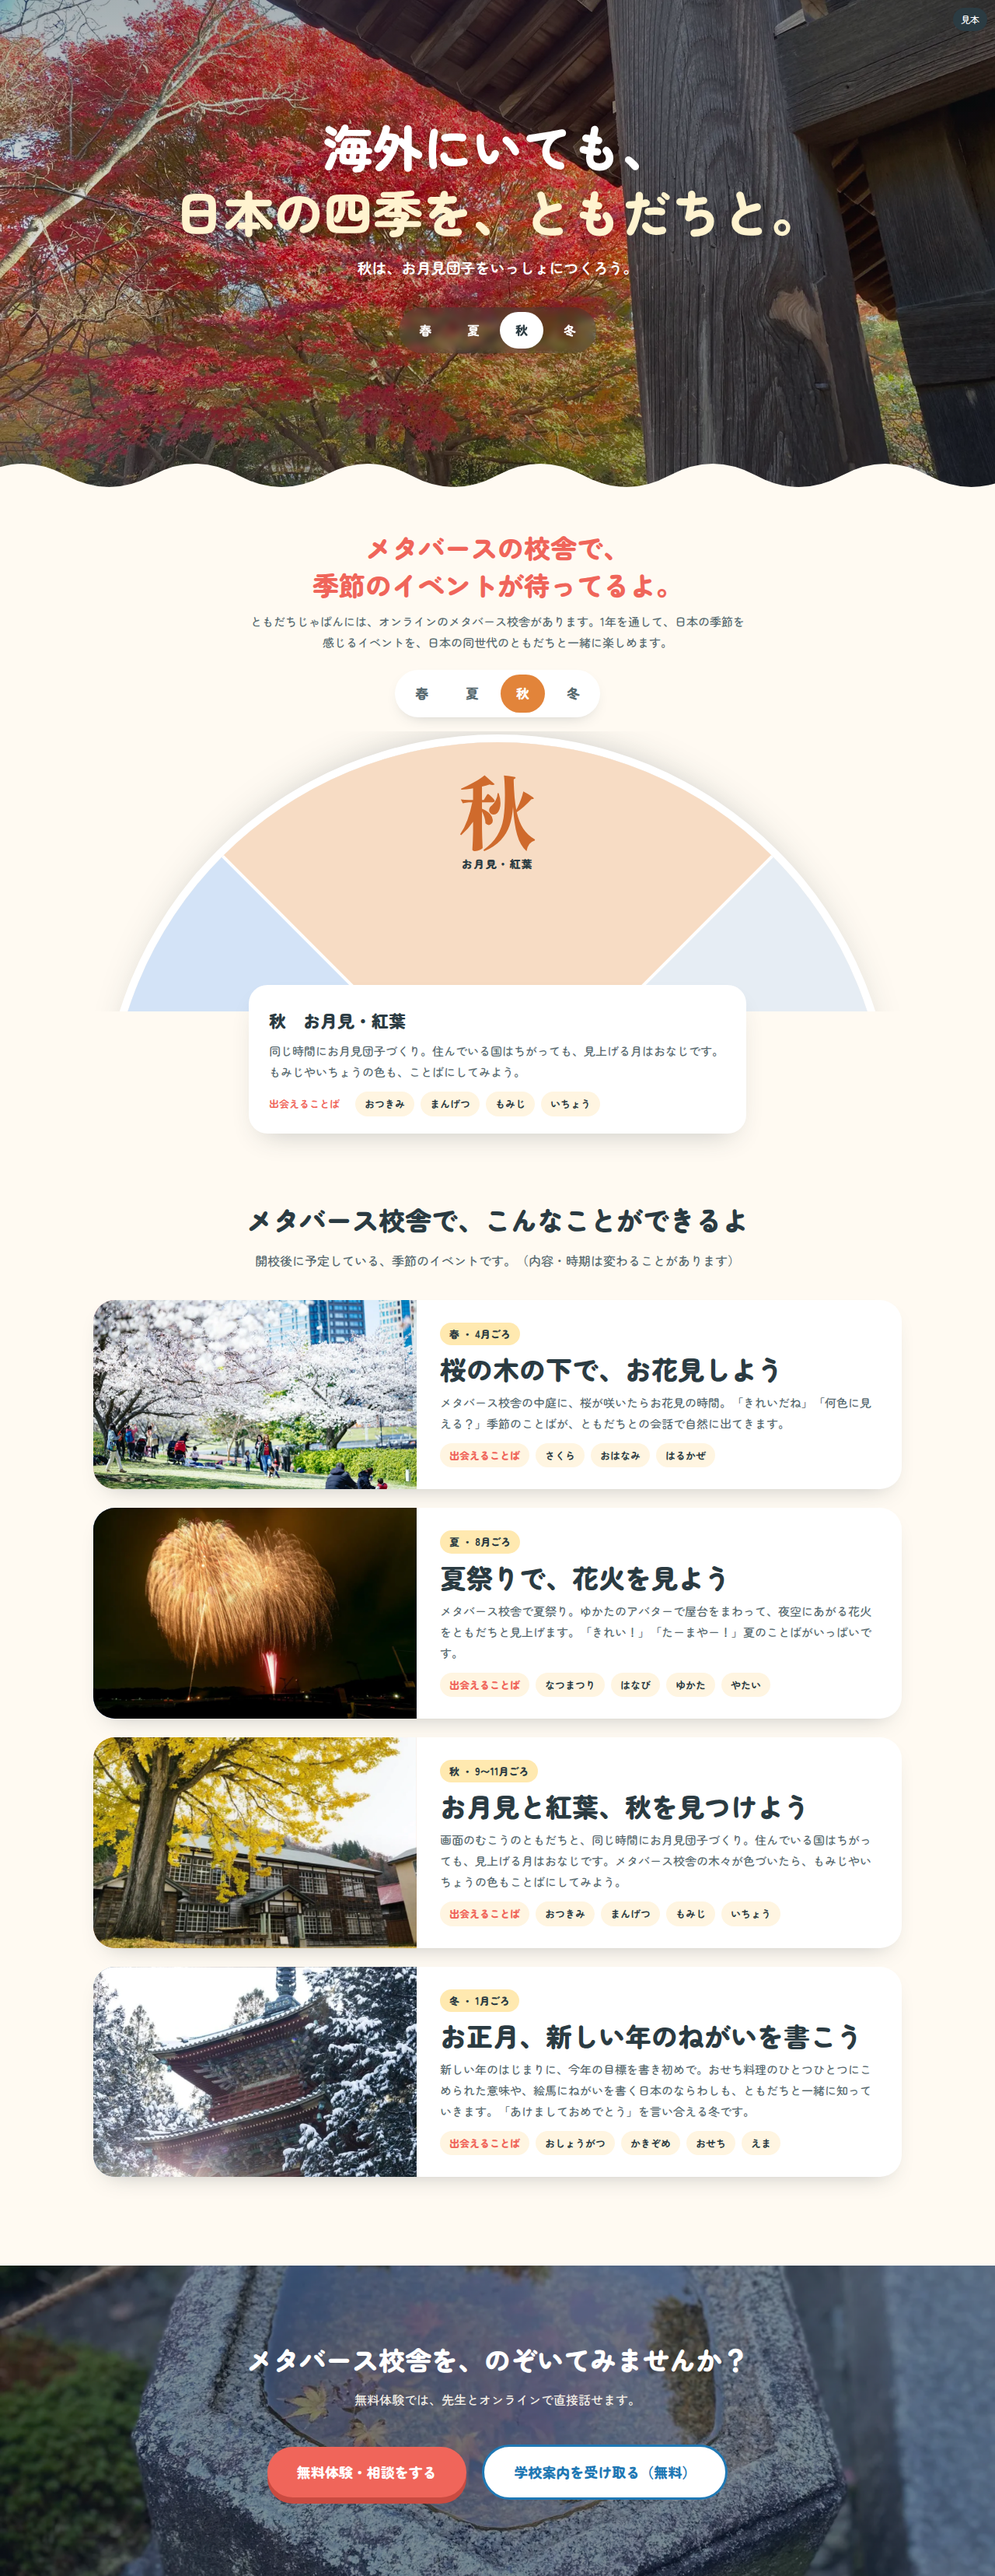
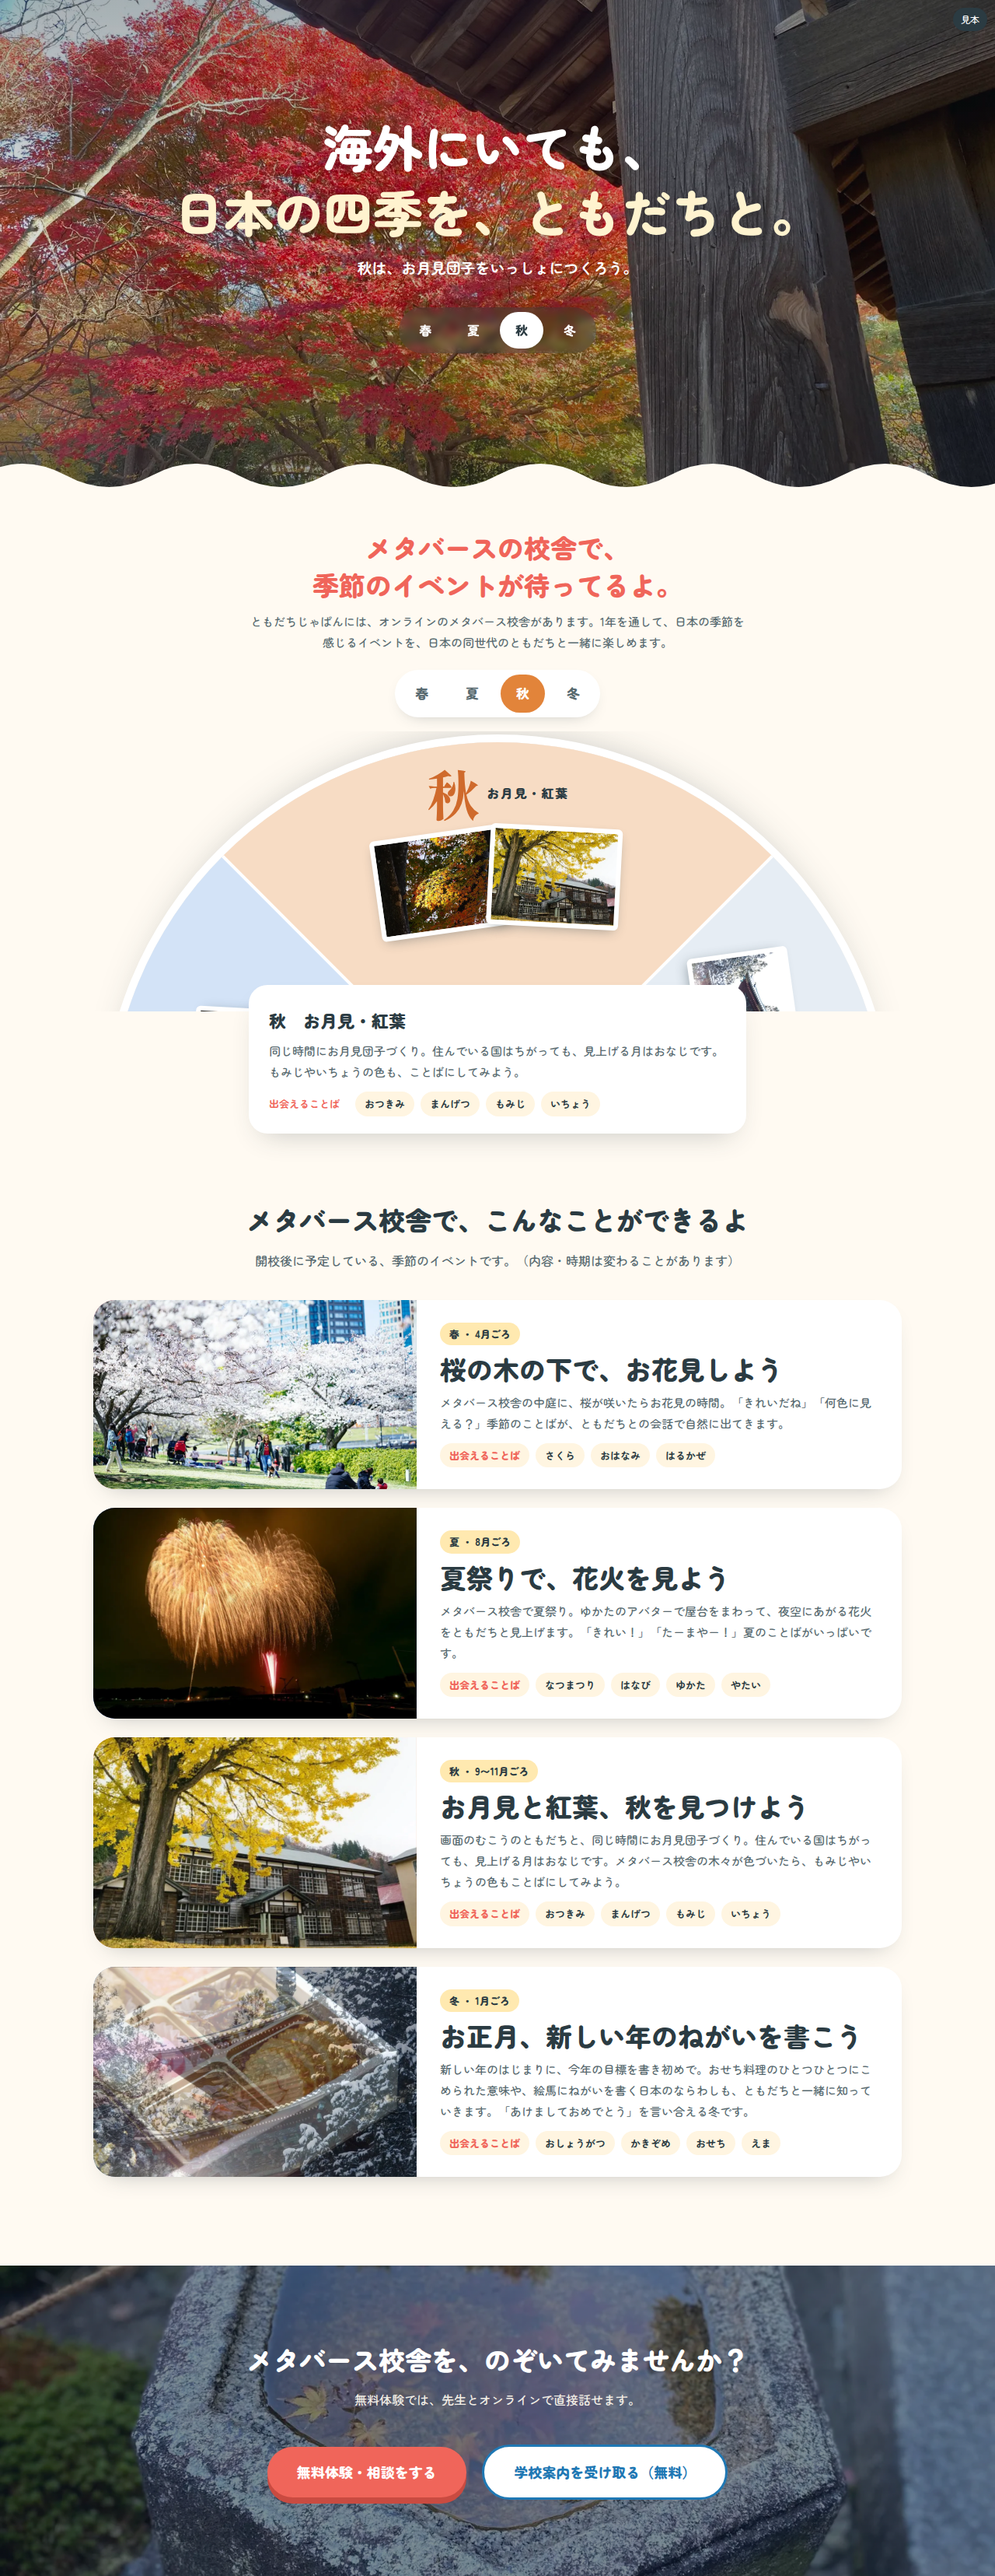
四季のページ：季節の輪に写真を重ねて配置
Claude-Session: https://claude.ai/code/session_01TCRPV7fohktLwWF6WC9mVd

Changed region(s): [[0.0938, 0.7466, 0.4375, 0.871], [0.375, 0.28, 0.625, 0.3733], [0.6875, 0.3422, 0.8125, 0.4044]]

diff --git a/site/kisetsu/kisetsu.html b/site/kisetsu/kisetsu.html
@@ -46,11 +46,11 @@ box-shadow:0 0 0 10px #fff,0 20px 50px -20px rgba(43,59,66,.35);transition:trans
 .ks-wheel::before,.ks-wheel::after{content:"";position:absolute;left:50%;top:0;bottom:0;width:4px;margin-left:-2px;background:#fff;transform:rotate(45deg)}
 .ks-wheel::after{transform:rotate(-45deg)}
 .ks-q{position:absolute;left:50%;top:50%;width:0;height:0}
-.ks-q div{position:absolute;left:-110px;width:220px;top:calc(var(--d) / -2 + 34px);text-align:center}
+.ks-q > div{position:absolute;left:calc(var(--d) * -.31);width:calc(var(--d) * .62);top:calc(var(--d) * -.5 + var(--d) * .03);text-align:center}
 .ks-q .e{font-size:clamp(40px,7vw,64px);line-height:1.1;display:block}
-.ks-q .n{font-family:'Shippori Mincho',serif;font-size:clamp(64px,11vw,104px);font-weight:800;line-height:1;display:block}
+.ks-q .n{font-family:'Shippori Mincho',serif;font-size:calc(var(--d) * .07);font-weight:800;line-height:1;display:inline-block;vertical-align:middle}
 .ks-q:nth-child(1) .n{color:#d0607f}.ks-q:nth-child(2) .n{color:#3f63c7}.ks-q:nth-child(3) .n{color:#cf6a2c}.ks-q:nth-child(4) .n{color:#5b7fa8}
-.ks-q .m{font-size:14px;font-weight:900;color:#2b3b42;letter-spacing:.1em;display:block;margin-top:6px}
+.ks-q .m{font-size:max(12px,calc(var(--d) * .016));font-weight:900;color:#2b3b42;letter-spacing:.1em;display:inline-block;vertical-align:middle;margin-left:8px}
 .ks-wt{max-width:640px;margin:-34px auto 0;position:relative;background:#fff;border-radius:24px;padding:26px 26px 22px;box-shadow:0 16px 36px -18px rgba(43,59,66,.3);text-align:left;transition:opacity .35s,transform .35s}
 .ks-wt.fade{opacity:0;transform:translateY(10px)}
 .ks-wt h3{font-size:22px;font-weight:900;margin-bottom:6px}
@@ -129,8 +129,16 @@ box-shadow:0 0 0 10px #fff,0 20px 50px -20px rgba(43,59,66,.35);transition:trans
 .ks-shogatsu .ks-ph.ph i:nth-child(1){background-image:url(/wp-content/uploads/2026/10/ks-yuki-to.webp)}
 .ks-shogatsu .ks-ph.ph i:nth-child(2){background-image:url(/wp-content/uploads/2026/10/ks-osechi.webp)}
 .ks-shogatsu .ks-ph.ph i:nth-child(3){background-image:url(/wp-content/uploads/2026/10/ks-ema.webp)}
+
+.ks-pics{display:flex;justify-content:center;margin-top:calc(var(--d) * .012)}
+.ks-pics b{display:block;width:calc(var(--d) * .17);height:calc(var(--d) * .13);margin:0 calc(var(--d) * -.012);background:#fff center/cover no-repeat;border:calc(var(--d) * .006) solid #fff;border-radius:6px;box-shadow:0 6px 16px -6px rgba(43,59,66,.45)}
+.ks-pics b:nth-child(1){transform:rotate(-8deg) translateY(4px)}
+.ks-pics b:nth-child(2){transform:rotate(3deg) translateY(-4px);position:relative;z-index:1}
+.ks-pics b:nth-child(3){transform:rotate(9deg) translateY(6px)}
+.ks-pics b:nth-child(4){transform:rotate(-4deg) translateY(0)}
+.ks-pics.one b{width:calc(var(--d) * .26);height:calc(var(--d) * .15);transform:rotate(-3deg)}
 </style>
-<div class="ks-root" data-ver="1013ks9">
+<div class="ks-root" data-ver="1013ks10">
 <section class="ks-hero" id="ksHero" data-s="autumn">
   <div class="ks-bg"><i data-s="spring"></i><i data-s="summer"></i><i data-s="autumn"></i><i data-s="winter"></i></div>
   <h1>海外にいても、<br><em><span style="display:inline-block">日本の四季を、</span><span style="display:inline-block">ともだちと。</span></em></h1>
@@ -147,10 +155,10 @@ box-shadow:0 0 0 10px #fff,0 20px 50px -20px rgba(43,59,66,.35);transition:trans
   <div class="ks-wb" id="ksWb"><button data-s="spring">春</button><button data-s="summer">夏</button><button data-s="autumn">秋</button><button data-s="winter">冬</button></div>
   <div class="ks-win">
     <div class="ks-wheel" id="ksWheel">
-      <div class="ks-q" style="transform:rotate(0deg)"><div><span class="n">春</span><span class="m">お花見</span></div></div>
-      <div class="ks-q" style="transform:rotate(90deg)"><div><span class="n">夏</span><span class="m">夏祭り</span></div></div>
-      <div class="ks-q" style="transform:rotate(180deg)"><div><span class="n">秋</span><span class="m">お月見・紅葉</span></div></div>
-      <div class="ks-q" style="transform:rotate(270deg)"><div><span class="n">冬</span><span class="m">お正月</span></div></div>
+      <div class="ks-q" style="transform:rotate(0deg)"><div><span class="n">春</span><span class="m">お花見</span><div class="ks-pics one"><b style="background-image:url(/wp-content/uploads/2026/10/ks-hanami.webp)"></b></div></div></div>
+      <div class="ks-q" style="transform:rotate(90deg)"><div><span class="n">夏</span><span class="m">夏祭り</span><div class="ks-pics"><b style="background-image:url(/wp-content/uploads/2026/10/ks-hanabi.webp)"></b><b style="background-image:url(/wp-content/uploads/2026/10/ks-yatai.webp)"></b></div></div></div>
+      <div class="ks-q" style="transform:rotate(180deg)"><div><span class="n">秋</span><span class="m">お月見・紅葉</span><div class="ks-pics"><b style="background-image:url(/wp-content/uploads/2026/10/ks-momiji.webp)"></b><b style="background-image:url(/wp-content/uploads/2026/10/ks-icho.webp)"></b></div></div></div>
+      <div class="ks-q" style="transform:rotate(270deg)"><div><span class="n">冬</span><span class="m">お正月</span><div class="ks-pics"><b style="background-image:url(/wp-content/uploads/2026/10/ks-yuki-to.webp)"></b><b style="background-image:url(/wp-content/uploads/2026/10/ks-osechi.webp)"></b><b style="background-image:url(/wp-content/uploads/2026/10/ks-ema.webp)"></b></div></div></div>
     </div>
   </div>
   <div class="ks-wt" id="ksWt"></div>

diff --git a/site/kisetsu/kisetsu-src-wp.html b/site/kisetsu/kisetsu-src-wp.html
@@ -40,11 +40,11 @@ box-shadow:0 0 0 10px #fff,0 20px 50px -20px rgba(43,59,66,.35);transition:trans
 .ks-wheel::before,.ks-wheel::after{content:"";position:absolute;left:50%;top:0;bottom:0;width:4px;margin-left:-2px;background:#fff;transform:rotate(45deg)}
 .ks-wheel::after{transform:rotate(-45deg)}
 .ks-q{position:absolute;left:50%;top:50%;width:0;height:0}
-.ks-q div{position:absolute;left:-110px;width:220px;top:calc(var(--d) / -2 + 34px);text-align:center}
+.ks-q > div{position:absolute;left:calc(var(--d) * -.31);width:calc(var(--d) * .62);top:calc(var(--d) * -.5 + var(--d) * .03);text-align:center}
 .ks-q .e{font-size:clamp(40px,7vw,64px);line-height:1.1;display:block}
-.ks-q .n{font-family:'Shippori Mincho',serif;font-size:clamp(64px,11vw,104px);font-weight:800;line-height:1;display:block}
+.ks-q .n{font-family:'Shippori Mincho',serif;font-size:calc(var(--d) * .07);font-weight:800;line-height:1;display:inline-block;vertical-align:middle}
 .ks-q:nth-child(1) .n{color:#d0607f}.ks-q:nth-child(2) .n{color:#3f63c7}.ks-q:nth-child(3) .n{color:#cf6a2c}.ks-q:nth-child(4) .n{color:#5b7fa8}
-.ks-q .m{font-size:14px;font-weight:900;color:#2b3b42;letter-spacing:.1em;display:block;margin-top:6px}
+.ks-q .m{font-size:max(12px,calc(var(--d) * .016));font-weight:900;color:#2b3b42;letter-spacing:.1em;display:inline-block;vertical-align:middle;margin-left:8px}
 .ks-wt{max-width:640px;margin:-34px auto 0;position:relative;background:#fff;border-radius:24px;padding:26px 26px 22px;box-shadow:0 16px 36px -18px rgba(43,59,66,.3);text-align:left;transition:opacity .35s,transform .35s}
 .ks-wt.fade{opacity:0;transform:translateY(10px)}
 .ks-wt h3{font-size:22px;font-weight:900;margin-bottom:6px}
@@ -123,6 +123,14 @@ box-shadow:0 0 0 10px #fff,0 20px 50px -20px rgba(43,59,66,.35);transition:trans
 .ks-shogatsu .ks-ph.ph i:nth-child(1){background-image:url(/wp-content/uploads/2026/10/ks-yuki-to.webp)}
 .ks-shogatsu .ks-ph.ph i:nth-child(2){background-image:url(/wp-content/uploads/2026/10/ks-osechi.webp)}
 .ks-shogatsu .ks-ph.ph i:nth-child(3){background-image:url(/wp-content/uploads/2026/10/ks-ema.webp)}
+
+.ks-pics{display:flex;justify-content:center;margin-top:calc(var(--d) * .012)}
+.ks-pics b{display:block;width:calc(var(--d) * .17);height:calc(var(--d) * .13);margin:0 calc(var(--d) * -.012);background:#fff center/cover no-repeat;border:calc(var(--d) * .006) solid #fff;border-radius:6px;box-shadow:0 6px 16px -6px rgba(43,59,66,.45)}
+.ks-pics b:nth-child(1){transform:rotate(-8deg) translateY(4px)}
+.ks-pics b:nth-child(2){transform:rotate(3deg) translateY(-4px);position:relative;z-index:1}
+.ks-pics b:nth-child(3){transform:rotate(9deg) translateY(6px)}
+.ks-pics b:nth-child(4){transform:rotate(-4deg) translateY(0)}
+.ks-pics.one b{width:calc(var(--d) * .26);height:calc(var(--d) * .15);transform:rotate(-3deg)}
 </style></head><body>
 <div class="ks-mock">見本</div>
 
@@ -142,10 +150,10 @@ box-shadow:0 0 0 10px #fff,0 20px 50px -20px rgba(43,59,66,.35);transition:trans
   <div class="ks-wb" id="ksWb"><button data-s="spring">春</button><button data-s="summer">夏</button><button data-s="autumn">秋</button><button data-s="winter">冬</button></div>
   <div class="ks-win">
     <div class="ks-wheel" id="ksWheel">
-      <div class="ks-q" style="transform:rotate(0deg)"><div><span class="n">春</span><span class="m">お花見</span></div></div>
-      <div class="ks-q" style="transform:rotate(90deg)"><div><span class="n">夏</span><span class="m">夏祭り</span></div></div>
-      <div class="ks-q" style="transform:rotate(180deg)"><div><span class="n">秋</span><span class="m">お月見・紅葉</span></div></div>
-      <div class="ks-q" style="transform:rotate(270deg)"><div><span class="n">冬</span><span class="m">お正月</span></div></div>
+      <div class="ks-q" style="transform:rotate(0deg)"><div><span class="n">春</span><span class="m">お花見</span><div class="ks-pics one"><b style="background-image:url(/wp-content/uploads/2026/10/ks-hanami.webp)"></b></div></div></div>
+      <div class="ks-q" style="transform:rotate(90deg)"><div><span class="n">夏</span><span class="m">夏祭り</span><div class="ks-pics"><b style="background-image:url(/wp-content/uploads/2026/10/ks-hanabi.webp)"></b><b style="background-image:url(/wp-content/uploads/2026/10/ks-yatai.webp)"></b></div></div></div>
+      <div class="ks-q" style="transform:rotate(180deg)"><div><span class="n">秋</span><span class="m">お月見・紅葉</span><div class="ks-pics"><b style="background-image:url(/wp-content/uploads/2026/10/ks-momiji.webp)"></b><b style="background-image:url(/wp-content/uploads/2026/10/ks-icho.webp)"></b></div></div></div>
+      <div class="ks-q" style="transform:rotate(270deg)"><div><span class="n">冬</span><span class="m">お正月</span><div class="ks-pics"><b style="background-image:url(/wp-content/uploads/2026/10/ks-yuki-to.webp)"></b><b style="background-image:url(/wp-content/uploads/2026/10/ks-osechi.webp)"></b><b style="background-image:url(/wp-content/uploads/2026/10/ks-ema.webp)"></b></div></div></div>
     </div>
   </div>
   <div class="ks-wt" id="ksWt"></div>

diff --git a/site/kisetsu/kisetsu-mock.html b/site/kisetsu/kisetsu-mock.html
@@ -40,11 +40,11 @@ box-shadow:0 0 0 10px #fff,0 20px 50px -20px rgba(43,59,66,.35);transition:trans
 .ks-wheel::before,.ks-wheel::after{content:"";position:absolute;left:50%;top:0;bottom:0;width:4px;margin-left:-2px;background:#fff;transform:rotate(45deg)}
 .ks-wheel::after{transform:rotate(-45deg)}
 .ks-q{position:absolute;left:50%;top:50%;width:0;height:0}
-.ks-q div{position:absolute;left:-110px;width:220px;top:calc(var(--d) / -2 + 34px);text-align:center}
+.ks-q > div{position:absolute;left:calc(var(--d) * -.31);width:calc(var(--d) * .62);top:calc(var(--d) * -.5 + var(--d) * .03);text-align:center}
 .ks-q .e{font-size:clamp(40px,7vw,64px);line-height:1.1;display:block}
-.ks-q .n{font-family:'Shippori Mincho',serif;font-size:clamp(64px,11vw,104px);font-weight:800;line-height:1;display:block}
+.ks-q .n{font-family:'Shippori Mincho',serif;font-size:calc(var(--d) * .07);font-weight:800;line-height:1;display:inline-block;vertical-align:middle}
 .ks-q:nth-child(1) .n{color:#d0607f}.ks-q:nth-child(2) .n{color:#3f63c7}.ks-q:nth-child(3) .n{color:#cf6a2c}.ks-q:nth-child(4) .n{color:#5b7fa8}
-.ks-q .m{font-size:14px;font-weight:900;color:#2b3b42;letter-spacing:.1em;display:block;margin-top:6px}
+.ks-q .m{font-size:max(12px,calc(var(--d) * .016));font-weight:900;color:#2b3b42;letter-spacing:.1em;display:inline-block;vertical-align:middle;margin-left:8px}
 .ks-wt{max-width:640px;margin:-34px auto 0;position:relative;background:#fff;border-radius:24px;padding:26px 26px 22px;box-shadow:0 16px 36px -18px rgba(43,59,66,.3);text-align:left;transition:opacity .35s,transform .35s}
 .ks-wt.fade{opacity:0;transform:translateY(10px)}
 .ks-wt h3{font-size:22px;font-weight:900;margin-bottom:6px}
@@ -123,6 +123,14 @@ box-shadow:0 0 0 10px #fff,0 20px 50px -20px rgba(43,59,66,.35);transition:trans
 .ks-shogatsu .ks-ph.ph i:nth-child(1){background-image:url(img/ks-yuki-to.webp)}
 .ks-shogatsu .ks-ph.ph i:nth-child(2){background-image:url(img/ks-osechi.webp)}
 .ks-shogatsu .ks-ph.ph i:nth-child(3){background-image:url(img/ks-ema.webp)}
+
+.ks-pics{display:flex;justify-content:center;margin-top:calc(var(--d) * .012)}
+.ks-pics b{display:block;width:calc(var(--d) * .17);height:calc(var(--d) * .13);margin:0 calc(var(--d) * -.012);background:#fff center/cover no-repeat;border:calc(var(--d) * .006) solid #fff;border-radius:6px;box-shadow:0 6px 16px -6px rgba(43,59,66,.45)}
+.ks-pics b:nth-child(1){transform:rotate(-8deg) translateY(4px)}
+.ks-pics b:nth-child(2){transform:rotate(3deg) translateY(-4px);position:relative;z-index:1}
+.ks-pics b:nth-child(3){transform:rotate(9deg) translateY(6px)}
+.ks-pics b:nth-child(4){transform:rotate(-4deg) translateY(0)}
+.ks-pics.one b{width:calc(var(--d) * .26);height:calc(var(--d) * .15);transform:rotate(-3deg)}
 </style></head><body>
 <div class="ks-mock">見本</div>
 
@@ -142,10 +150,10 @@ box-shadow:0 0 0 10px #fff,0 20px 50px -20px rgba(43,59,66,.35);transition:trans
   <div class="ks-wb" id="ksWb"><button data-s="spring">春</button><button data-s="summer">夏</button><button data-s="autumn">秋</button><button data-s="winter">冬</button></div>
   <div class="ks-win">
     <div class="ks-wheel" id="ksWheel">
-      <div class="ks-q" style="transform:rotate(0deg)"><div><span class="n">春</span><span class="m">お花見</span></div></div>
-      <div class="ks-q" style="transform:rotate(90deg)"><div><span class="n">夏</span><span class="m">夏祭り</span></div></div>
-      <div class="ks-q" style="transform:rotate(180deg)"><div><span class="n">秋</span><span class="m">お月見・紅葉</span></div></div>
-      <div class="ks-q" style="transform:rotate(270deg)"><div><span class="n">冬</span><span class="m">お正月</span></div></div>
+      <div class="ks-q" style="transform:rotate(0deg)"><div><span class="n">春</span><span class="m">お花見</span><div class="ks-pics one"><b style="background-image:url(img/ks-hanami.webp)"></b></div></div></div>
+      <div class="ks-q" style="transform:rotate(90deg)"><div><span class="n">夏</span><span class="m">夏祭り</span><div class="ks-pics"><b style="background-image:url(img/ks-hanabi.webp)"></b><b style="background-image:url(img/ks-yatai.webp)"></b></div></div></div>
+      <div class="ks-q" style="transform:rotate(180deg)"><div><span class="n">秋</span><span class="m">お月見・紅葉</span><div class="ks-pics"><b style="background-image:url(img/ks-momiji.webp)"></b><b style="background-image:url(img/ks-icho.webp)"></b></div></div></div>
+      <div class="ks-q" style="transform:rotate(270deg)"><div><span class="n">冬</span><span class="m">お正月</span><div class="ks-pics"><b style="background-image:url(img/ks-yuki-to.webp)"></b><b style="background-image:url(img/ks-osechi.webp)"></b><b style="background-image:url(img/ks-ema.webp)"></b></div></div></div>
     </div>
   </div>
   <div class="ks-wt" id="ksWt"></div>
